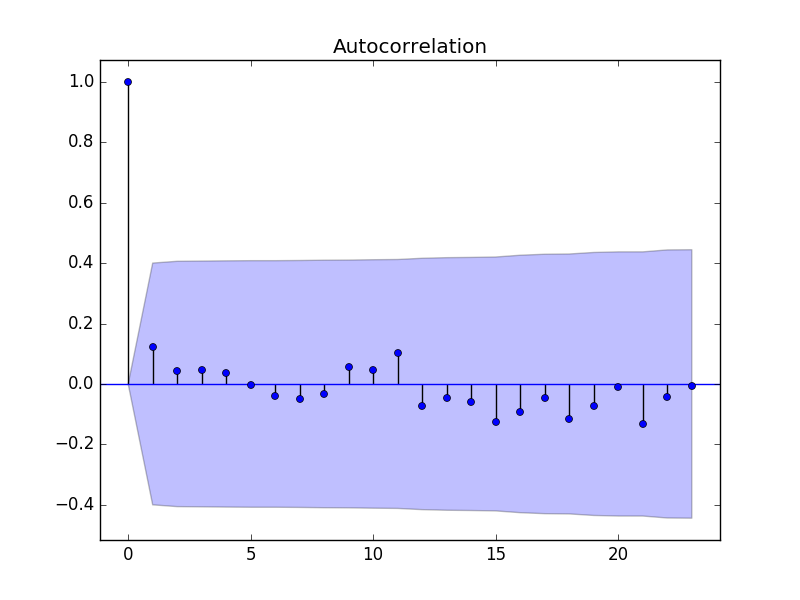
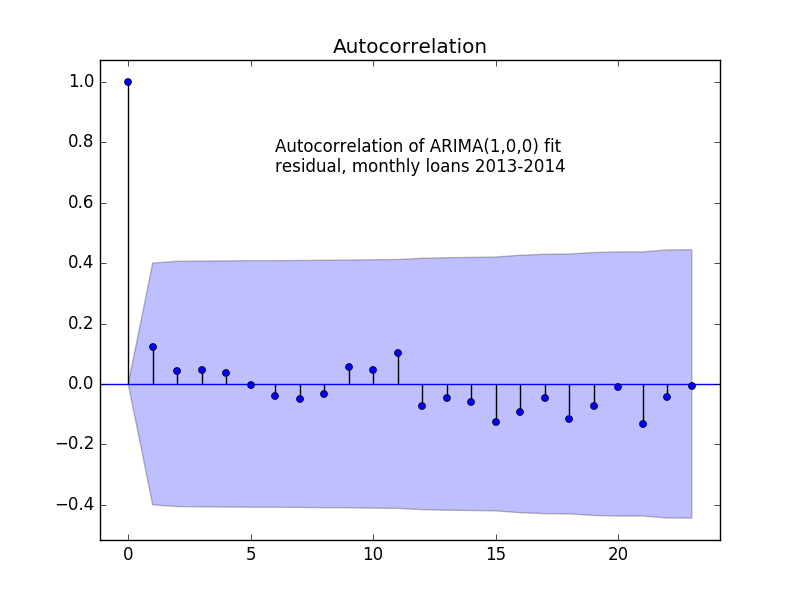
clean up plots

Changed region(s): [[0.3438, 0.21, 0.7188, 0.3]]

diff --git a/time_series.py b/time_series.py
@@ -72,7 +72,7 @@ plt.savefig(plotdir+'loan_monthly_count.png')
 
 plt.clf()
 sm.graphics.tsa.plot_acf(loan_count)
-plt.text(12 ,0.5, 'Autocorrelation of monthly\n  loan count, 2013-2014.')
+plt.text(12 ,0.5, 'Autocorrelation of monthly\n  loan count, 2013-2014')
 # plt.show()
 plt.savefig(plotdir+'loan_monthly_acf.png')
 
@@ -84,7 +84,7 @@ sm.graphics.tsa.plot_pacf(loan_count)  # default fails w/ ints, ok w/ dates
 # sm.graphics.tsa.plot_pacf(loan_count, method='ldb')  # works
 # sm.graphics.tsa.plot_pacf(loan_count, method='ols')  # fails w/ ints, dates
 
-plt.text(12 ,0.7, '    Partial autocorrelation of\nmonthly loan count, 2013-2014.')
+plt.text(12 ,0.7, '    Partial autocorrelation of\nmonthly loan count, 2013-2014')
 plt.savefig(plotdir+'loan_monthly_pacf.png')
 
 print 'done'
@@ -98,10 +98,11 @@ def arima_analysis(p, d, q):
     q is the number of lagged forecast errors'''
 
     if p<0 or d<0 or q<0:
-        print 'arima_model argument cannot be less than zero'
+        print 'arima_analysis argument cannot be less than zero'
         return
 
     label  = str(p) + str(d) + str(q)
+    plabel = '(' + str(p) + ',' + str(d) + ',' + str(q) + ')'
     alabel = '\narima model ' + label
     print alabel + ' analysis'
     arima_mod = sm.tsa.ARIMA(loan_count, (p, d, q)).fit()
@@ -115,23 +116,28 @@ def arima_analysis(p, d, q):
 
     plotpath = plotdir + 'arima_mod' + label + '_'
     plt.clf()
-    arima_mod.resid.plot()
+    arima_mod.resid.plot(figsize=(8, 5.2))
+    plt.text(arima_mod.resid.index[13], -600, 'Residual of ARIMA'+plabel+' fit\nof monthly loans 2013-2014')
     plt.savefig(plotpath + 'resid.png')
 #   plt.clf()
 #   plt.plot(arima_mod.predict().index, arima_mod.resid)  # ok, needs work
 #   plt.savefig(plotpath + 'resid2.png')
     plt.clf()
     qqplot(arima_mod.resid, line='q')
+    plt.text(0.0 ,-500, 'Quantile plot of ARIMA'+plabel+' fit\nof monthly loans 2013-2014')
     plt.savefig(plotpath + 'qqplot.png')
     plt.clf()
     sm.graphics.tsa.plot_acf(arima_mod.resid)
+    plt.text(6 ,0.7, 'Autocorrelation of ARIMA'+plabel+' fit\nresidual, monthly loans 2013-2014')
     plt.savefig(plotpath + 'acf.png')
     plt.clf()
     sm.graphics.tsa.plot_pacf(arima_mod.resid)
+    plt.text(5 ,0.7, 'Partial autocorrelation of ARIMA'+plabel+'\nfit residual, monthly loans 2013-2014')
     plt.savefig(plotpath + 'pacf.png')
     plt.clf()
     plt.plot(arima_mod.predict().index, arima_mod.predict(), 'r-')
     plt.plot(loan_count.index, loan_count.values)
+    plt.text(loan_count.index[2], 13000, 'Predicted values of ARIMA'+plabel+' fit (red) and\nactual monthly loan count (blue), 2013-2014')
     plt.savefig(plotpath + 'predict.png')
 #   print 'loan len, predict len', len(loan_count.values), len(arima_mod100.predict())
 #   print loan_count.index   # Freq None
@@ -141,9 +147,9 @@ def arima_analysis(p, d, q):
 
 
 print 'Starting ARIMA analyses'
-# arima_analysis(1, 0, 0)
+arima_analysis(1, 0, 0)
 # arima_analysis(1, 1, 0)
-arima_analysis(2, 0, 0)
+# arima_analysis(2, 0, 0)
 # help(arima_analysis)   # test help output
 print 'ARIMA analyses done.'
 print '\nCONCLUSION: It seems that the ARIMA(1, 0, 0) model best fits the data.'
